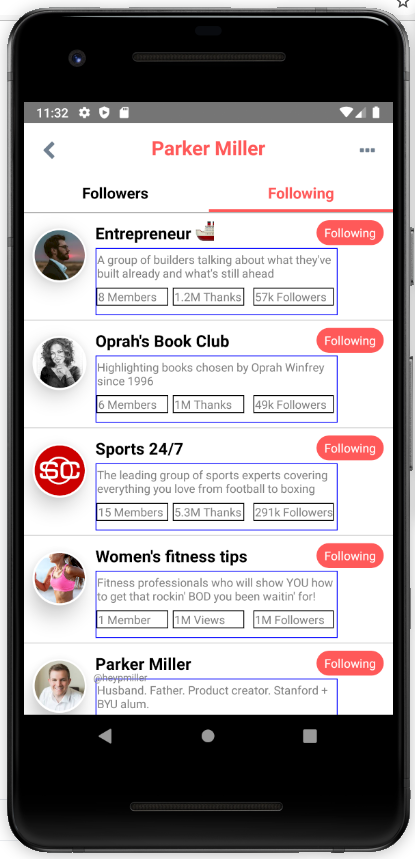
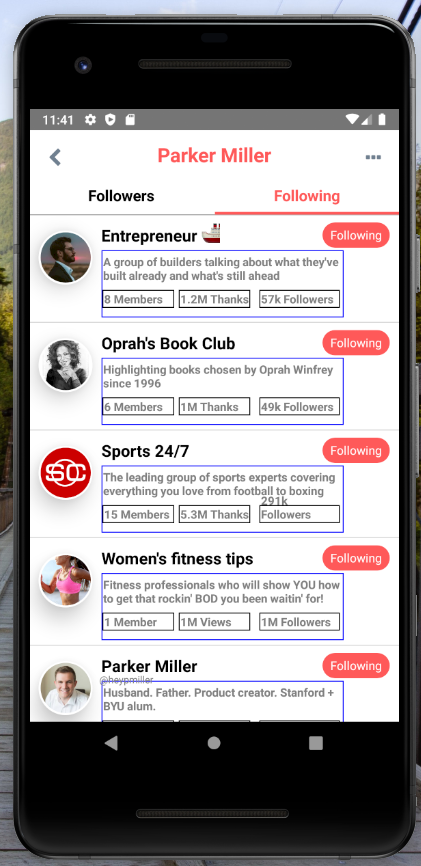
cool

Changed region(s): [[0.0, 0.0, 1.0, 1.0], [0.3181, 0.0605, 0.694, 0.0908], [0.1735, 0.0605, 0.2313, 0.0908]]

diff --git a/src/components/ListItem.js b/src/components/ListItem.js
@@ -143,6 +143,7 @@ listItem: {
             color: 'grey',
             top: 3,
             left: 1,
+            fontWeight: 'bold',
         },
         /* div within "textcontainer" that stores the stat figure 1*/
         figure_one_container: {
@@ -185,6 +186,7 @@ listItem: {
                 bottom: 0,
                 left: 1,
                 textAlign: 'left',
+                fontWeight: 'bold',
             },
 });
 

diff --git a/src/components/Header.js b/src/components/Header.js
@@ -41,7 +41,7 @@ Header.defaultProps = {
 const styles = StyleSheet.create({
 /* primary div for the header component*/  
   header: {
-    height: 100,
+    height: 95,
     backgroundColor: 'white',
     borderBottomWidth: 1,
     borderBottomColor: '#A9A9A9',

diff --git a/README.md b/README.md
@@ -32,7 +32,7 @@ https://github.com/oblador/react-native-vector-icons#android
   
 ### Problem Solving
 
-I built two primary components, a Header component, and a ListView structure/component. I used a ListView structure, so that it would be easier to display all of the information in an organized and structured format. 
+I built two primary components, a Header component, and a ListView structure/component. I used a ListView structure, so that it would be easier to display all of the information in an organized and structured format. Additionally, ListView components are scrollable.
 
 ![problemsolving](/images/problem_solving.png/)
 
